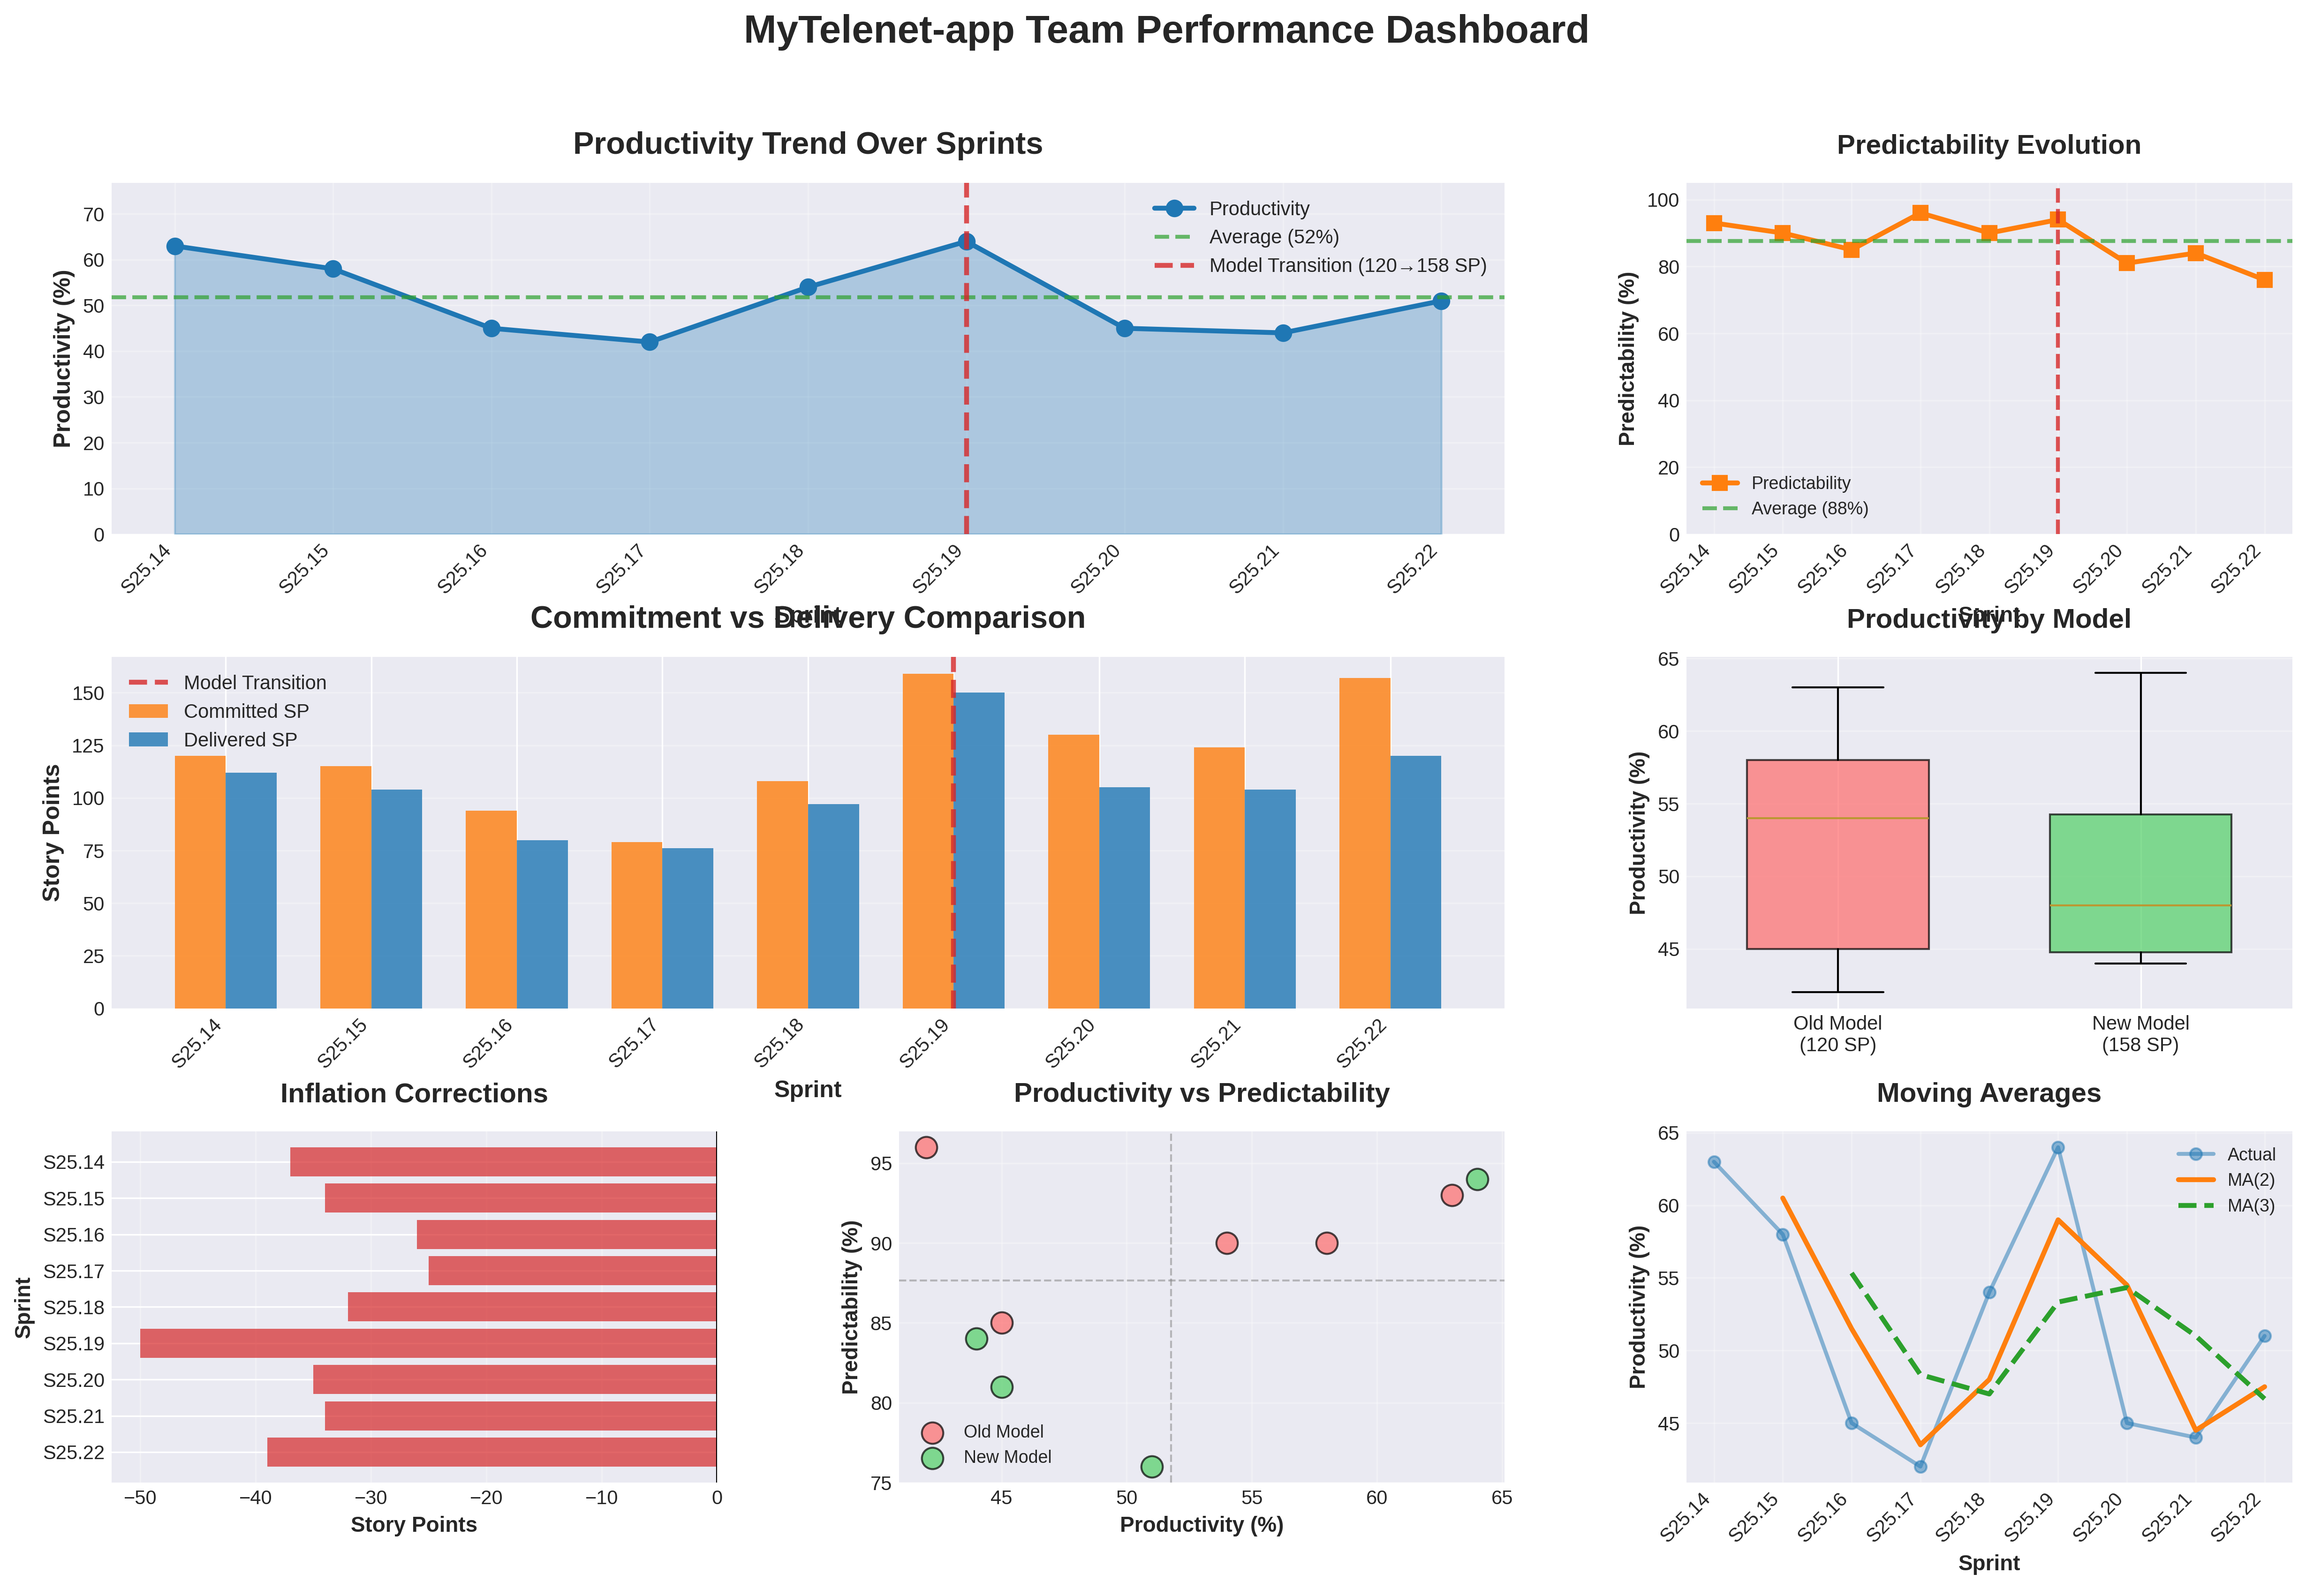
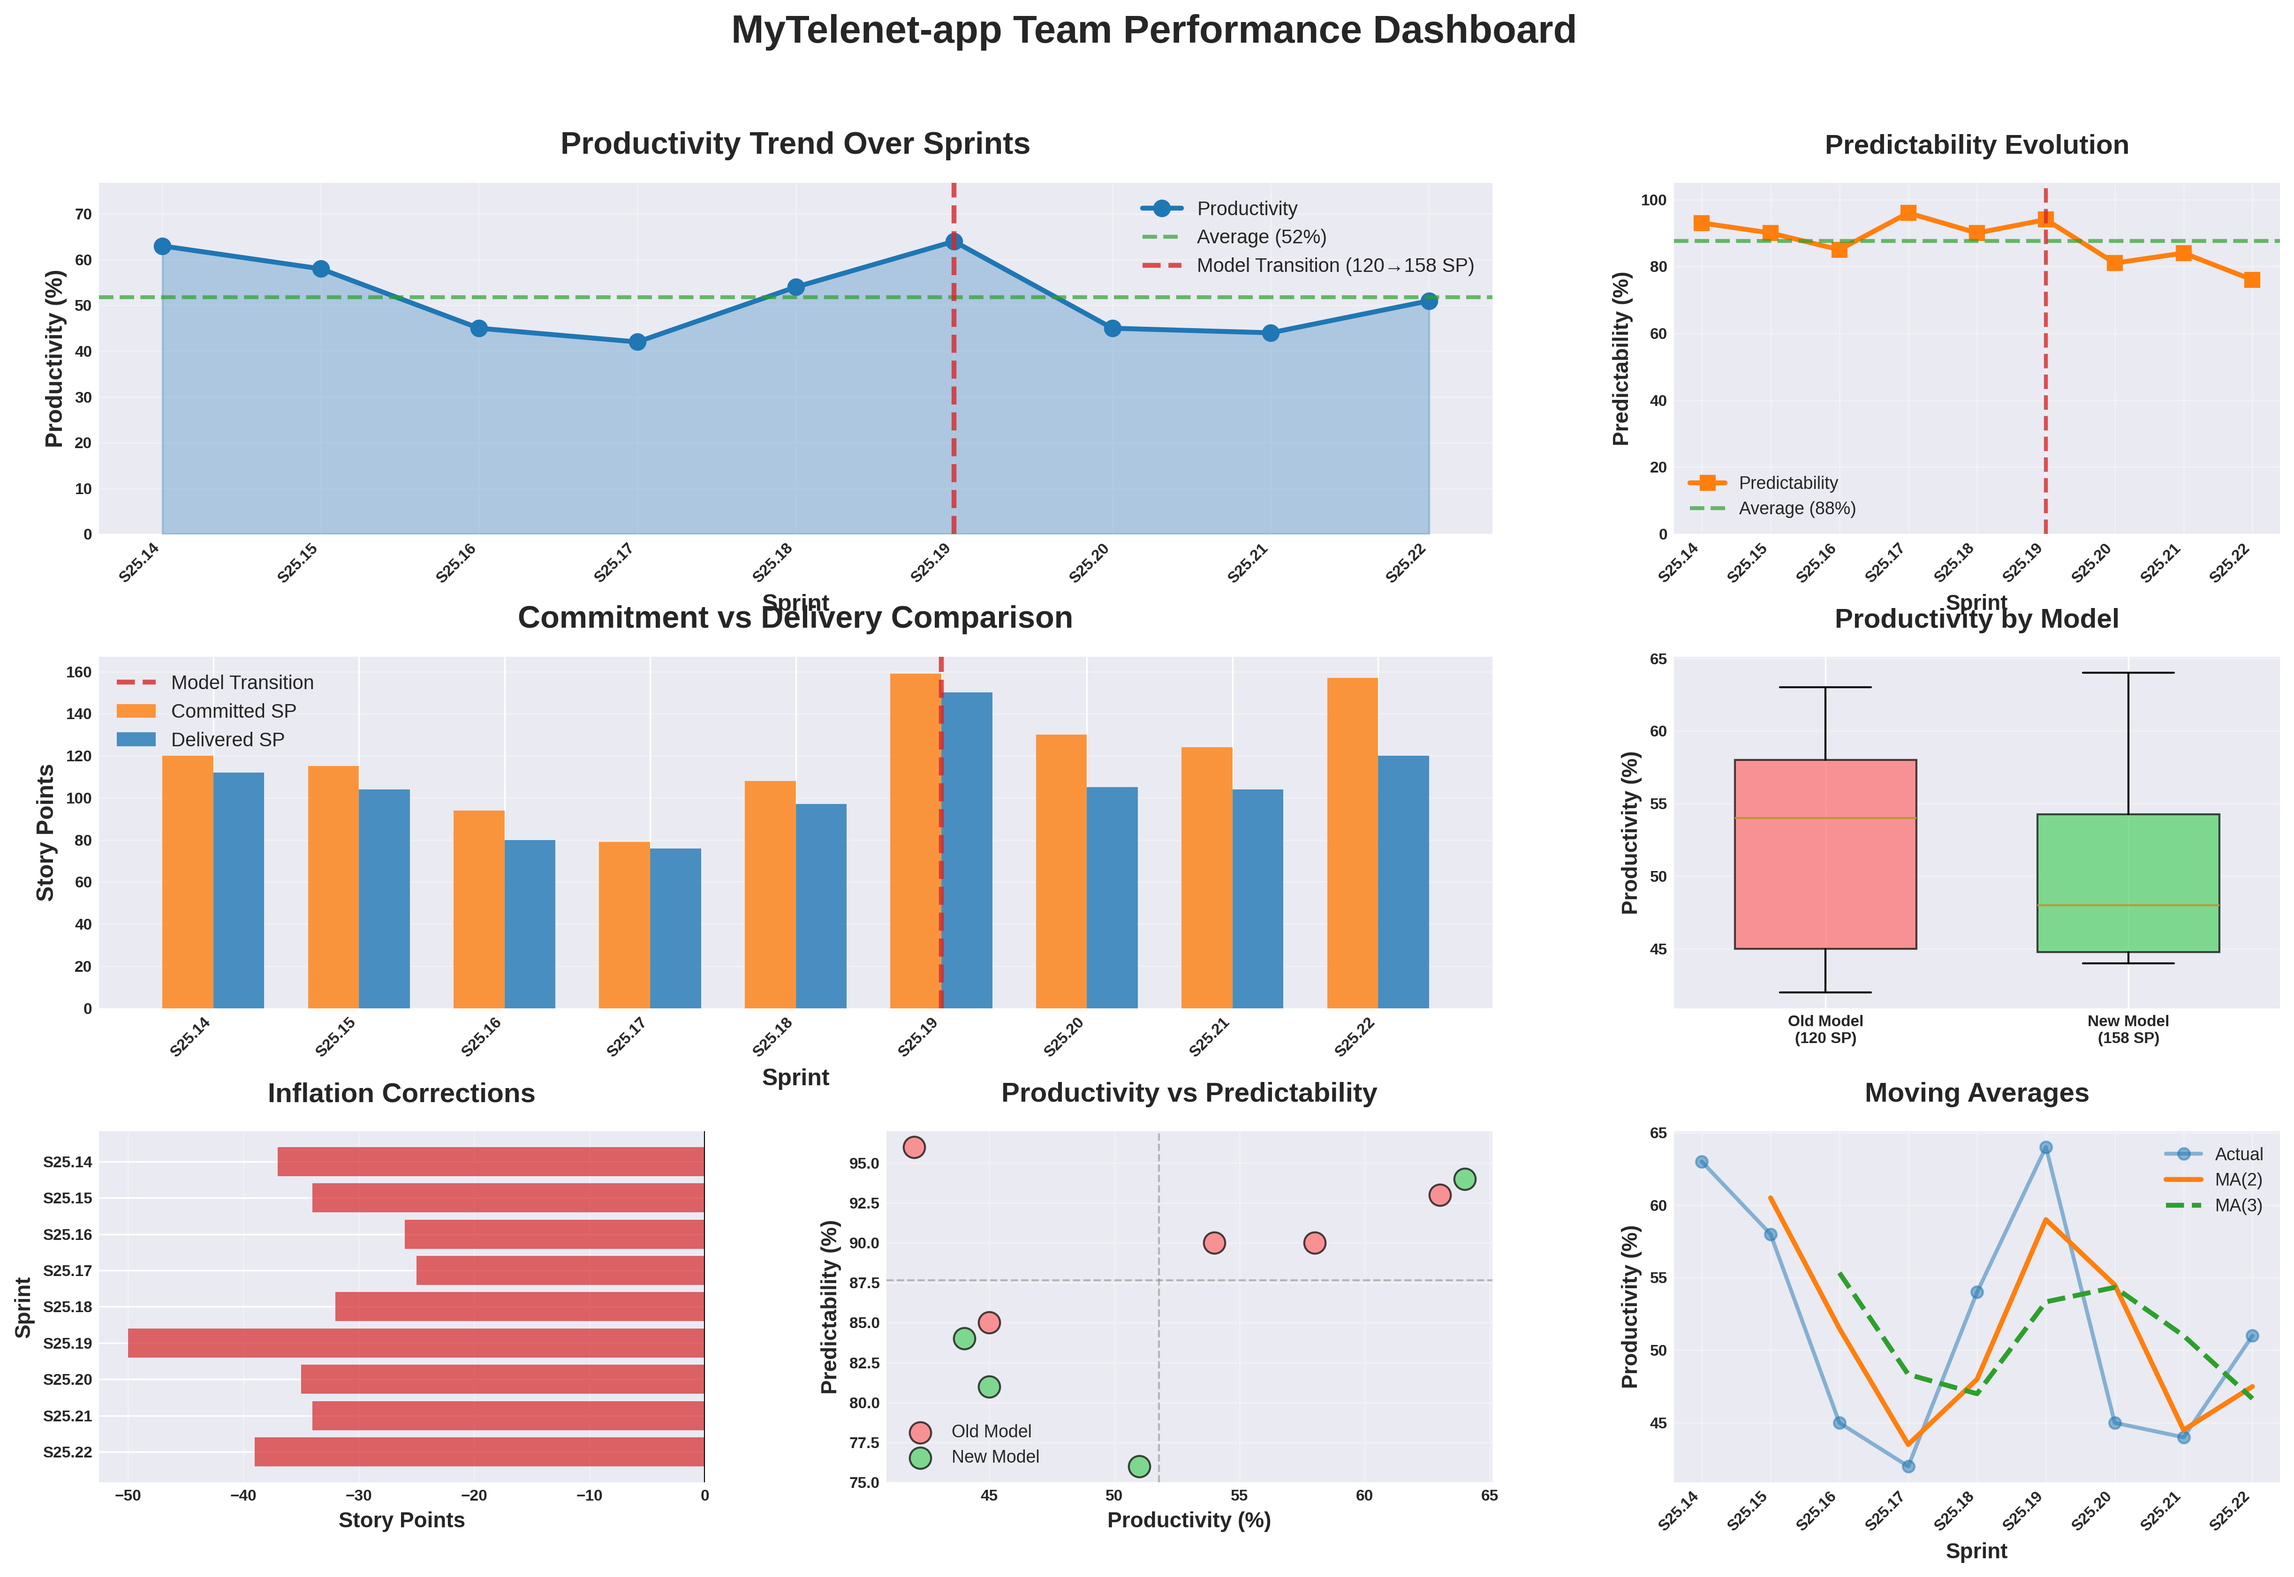
Improve dashboard font clarity with smaller, bold axis labels
- Reduced axis tick label font size from default to 8pt for better readability
- Made all axis tick labels bold for improved contrast and clarity
- Applied consistent formatting across all 7 charts
- Maintained rotation for x-axis labels where appropriate

This improves visual clarity especially when viewing on screen or in presentations.

diff --git a/analyze_mytelenet_team.py b/analyze_mytelenet_team.py
@@ -118,7 +118,9 @@ ax1.set_ylabel('Productivity (%)', fontsize=12, fontweight='bold')
 ax1.legend(fontsize=10, loc='best')
 ax1.grid(True, alpha=0.3)
 ax1.set_ylim([0, max(df_clean['Productivity_num'] * 100) * 1.2])
-plt.setp(ax1.xaxis.get_majorticklabels(), rotation=45, ha='right')
+ax1.tick_params(axis='both', labelsize=8, width=1.5)
+plt.setp(ax1.xaxis.get_majorticklabels(), rotation=45, ha='right', fontweight='bold')
+plt.setp(ax1.yaxis.get_majorticklabels(), fontweight='bold')
 
 # Chart 2: Predictability Trend Line (Top Right)
 ax2 = fig.add_subplot(gs[0, 2])
@@ -136,7 +138,9 @@ ax2.set_ylabel('Predictability (%)', fontsize=11, fontweight='bold')
 ax2.legend(fontsize=9, loc='best')
 ax2.grid(True, alpha=0.3)
 ax2.set_ylim([0, 105])
-plt.setp(ax2.xaxis.get_majorticklabels(), rotation=45, ha='right')
+ax2.tick_params(axis='both', labelsize=8, width=1.5)
+plt.setp(ax2.xaxis.get_majorticklabels(), rotation=45, ha='right', fontweight='bold')
+plt.setp(ax2.yaxis.get_majorticklabels(), fontweight='bold')
 
 # Chart 3: Commitment vs Delivery Bar Chart (Middle Left, spans 2 columns)
 ax3 = fig.add_subplot(gs[1, :2])
@@ -159,6 +163,9 @@ ax3.set_xticks(x_pos)
 ax3.set_xticklabels(df_clean['Sprint'], rotation=45, ha='right')
 ax3.legend(fontsize=10, loc='best')
 ax3.grid(True, alpha=0.3, axis='y')
+ax3.tick_params(axis='both', labelsize=8, width=1.5)
+plt.setp(ax3.xaxis.get_majorticklabels(), fontweight='bold')
+plt.setp(ax3.yaxis.get_majorticklabels(), fontweight='bold')
 
 # Chart 4: Model Comparison Box Plot (Middle Right)
 ax4 = fig.add_subplot(gs[1, 2])
@@ -177,6 +184,9 @@ else:
 ax4.set_title('Productivity by Model', fontsize=14, fontweight='bold', pad=15)
 ax4.set_ylabel('Productivity (%)', fontsize=11, fontweight='bold')
 ax4.grid(True, alpha=0.3, axis='y')
+ax4.tick_params(axis='both', labelsize=8, width=1.5)
+plt.setp(ax4.xaxis.get_majorticklabels(), fontweight='bold')
+plt.setp(ax4.yaxis.get_majorticklabels(), fontweight='bold')
 
 # Chart 5: Inflation Corrections Horizontal Bar (Bottom Left)
 ax5 = fig.add_subplot(gs[2, 0])
@@ -188,6 +198,9 @@ ax5.set_ylabel('Sprint', fontsize=11, fontweight='bold')
 ax5.axvline(x=0, color='black', linewidth=1)
 ax5.grid(True, alpha=0.3, axis='x')
 ax5.invert_yaxis()
+ax5.tick_params(axis='both', labelsize=8, width=1.5)
+plt.setp(ax5.xaxis.get_majorticklabels(), fontweight='bold')
+plt.setp(ax5.yaxis.get_majorticklabels(), fontweight='bold')
 
 # Chart 6: Productivity vs Predictability Scatter (Bottom Center)
 ax6 = fig.add_subplot(gs[2, 1])
@@ -207,6 +220,9 @@ ax6.set_xlabel('Productivity (%)', fontsize=11, fontweight='bold')
 ax6.set_ylabel('Predictability (%)', fontsize=11, fontweight='bold')
 ax6.legend(fontsize=9, loc='best')
 ax6.grid(True, alpha=0.3)
+ax6.tick_params(axis='both', labelsize=8, width=1.5)
+plt.setp(ax6.xaxis.get_majorticklabels(), fontweight='bold')
+plt.setp(ax6.yaxis.get_majorticklabels(), fontweight='bold')
 
 # Chart 7: Moving Average Trends (Bottom Right)
 ax7 = fig.add_subplot(gs[2, 2])
@@ -225,7 +241,9 @@ ax7.set_xlabel('Sprint', fontsize=11, fontweight='bold')
 ax7.set_ylabel('Productivity (%)', fontsize=11, fontweight='bold')
 ax7.legend(fontsize=9, loc='best')
 ax7.grid(True, alpha=0.3)
-plt.setp(ax7.xaxis.get_majorticklabels(), rotation=45, ha='right')
+ax7.tick_params(axis='both', labelsize=8, width=1.5)
+plt.setp(ax7.xaxis.get_majorticklabels(), rotation=45, ha='right', fontweight='bold')
+plt.setp(ax7.yaxis.get_majorticklabels(), fontweight='bold')
 
 # Add main title
 fig.suptitle('MyTelenet-app Team Performance Dashboard',
